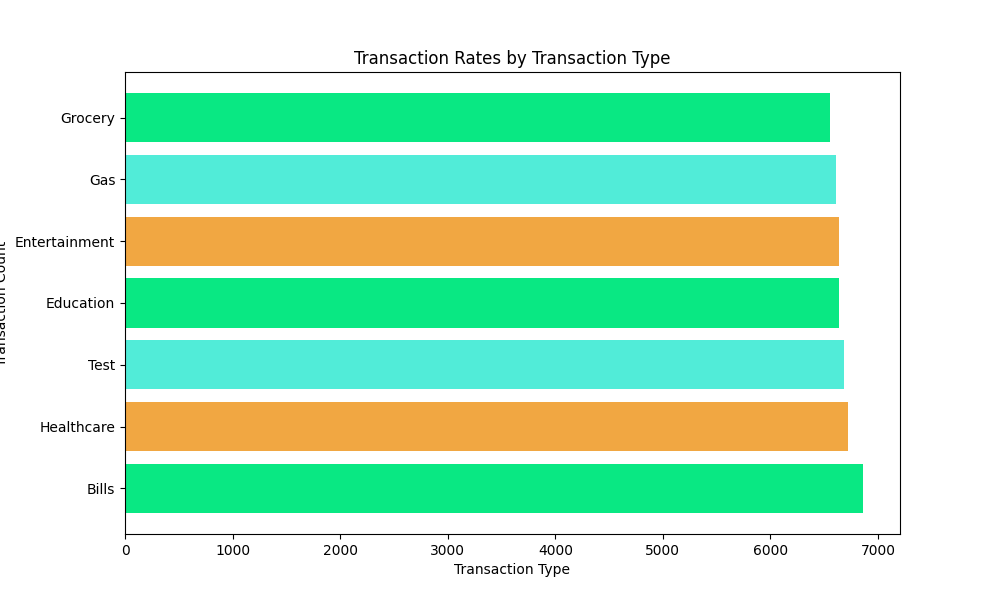
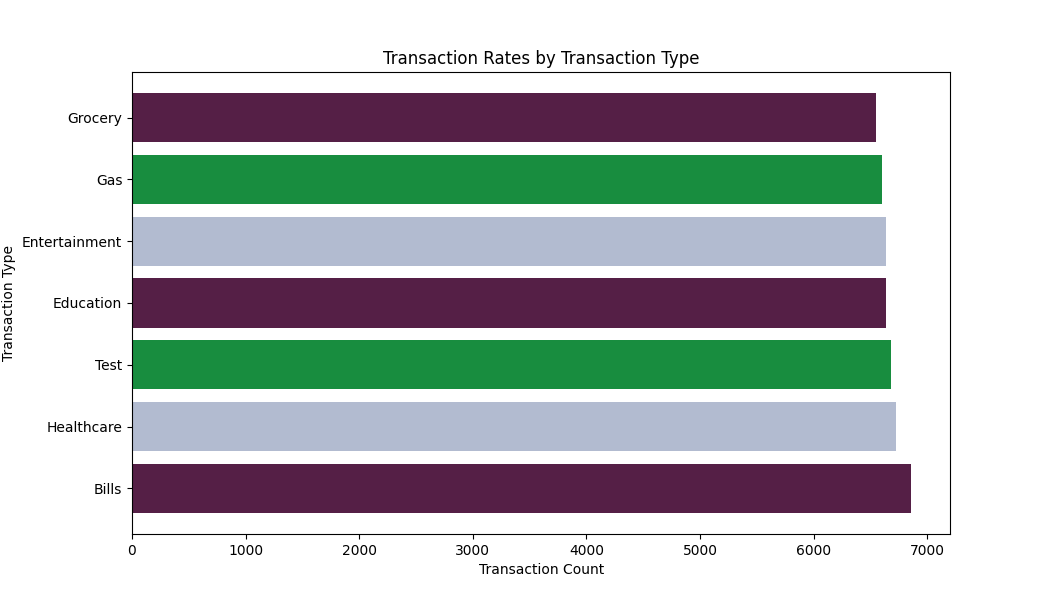
modified:   Data_Analysis_Visualization.py 	new file:   Graphs/Figure_21.png 	modified:   Graphs/Figure_5.png

diff --git a/Data_Analysis_Visualization.py b/Data_Analysis_Visualization.py
@@ -219,14 +219,11 @@ plt.show()
 transaction_rates = CDW_SAPP_CREDIT_CARD.groupBy("TRANSACTION_TYPE").count().orderBy("count", ascending=False)
 types = [row["TRANSACTION_TYPE"] for row in transaction_rates.collect()]
 counts = [row["count"] for row in transaction_rates.collect()]
-
-colors = ['#' + ''.join([random.choice('0123456789ABCDEF') for _ in range(6)]) for _ in range(3)]
-
 plt.figure(figsize=(10, 6))
 plt.barh(types, counts, color=colors)
 
-plt.xlabel("Transaction Type")
-plt.ylabel("Transaction Count")
+plt.xlabel("Transaction Count")
+plt.ylabel("Transaction Type")
 plt.title("Transaction Rates by Transaction Type")
 plt.show()
 
